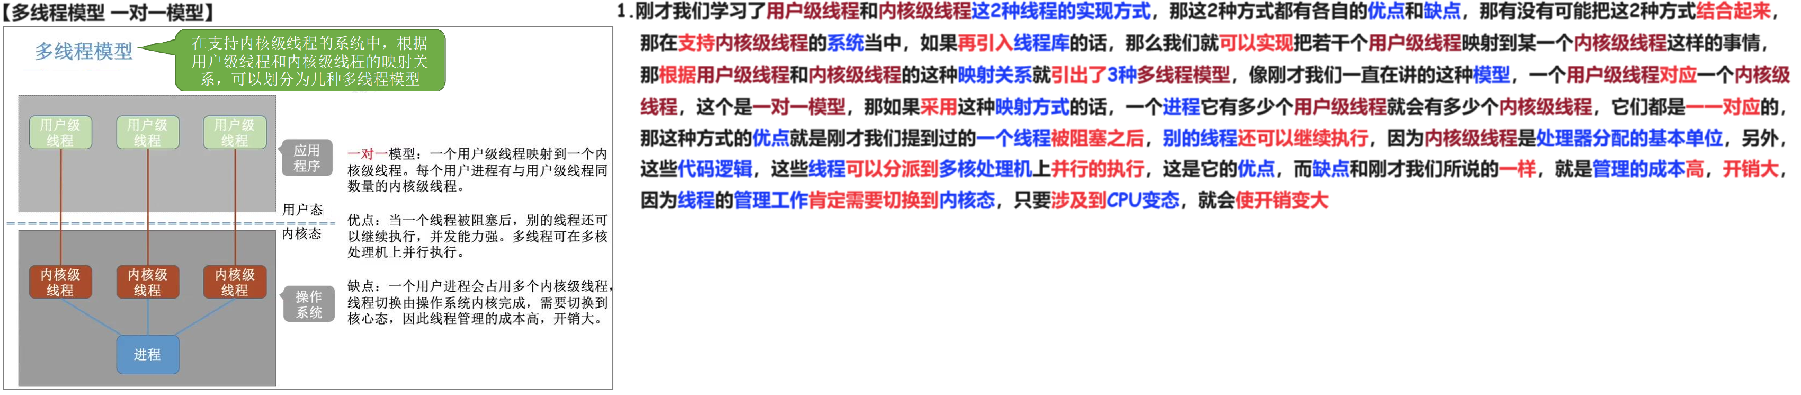
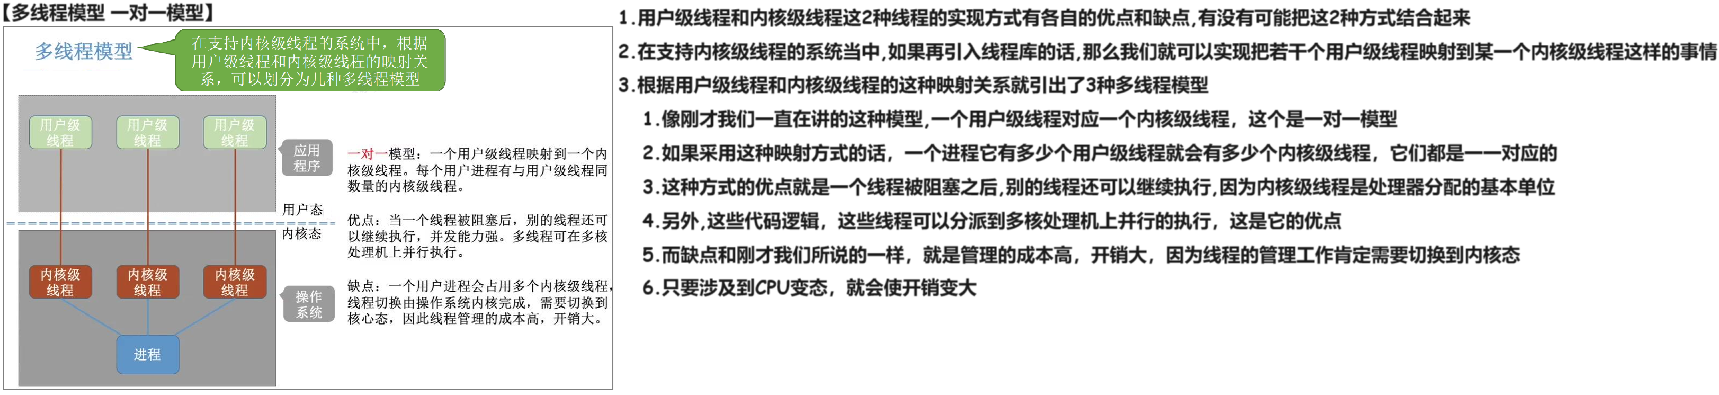
240615

diff --git a/01 初试/01 OS/02 24 25 王道/01 基础/02 进程 线程/01 进程 线程/06 线程 实现方式 多线程模型 240614/02 消化/02 Doc.md b/01 初试/01 OS/02 24 25 王道/01 基础/02 进程 线程/01 进程 线程/06 线程 实现方式 多线程模型 240614/02 消化/02 Doc.md
@@ -22,7 +22,7 @@
 
 # 04 多线程模型 一对一模型
 
-<img src="https://cvp.oss-cn-shanghai.aliyuncs.com/picgo/202405122039444.png" alt="image-20240512203937335" style="zoom:50%;" />
+<img src="https://cvp.oss-cn-shanghai.aliyuncs.com/picgo/202406151141690.png" alt="image-20240615114132364" style="zoom:50%;" />
 
 
 
